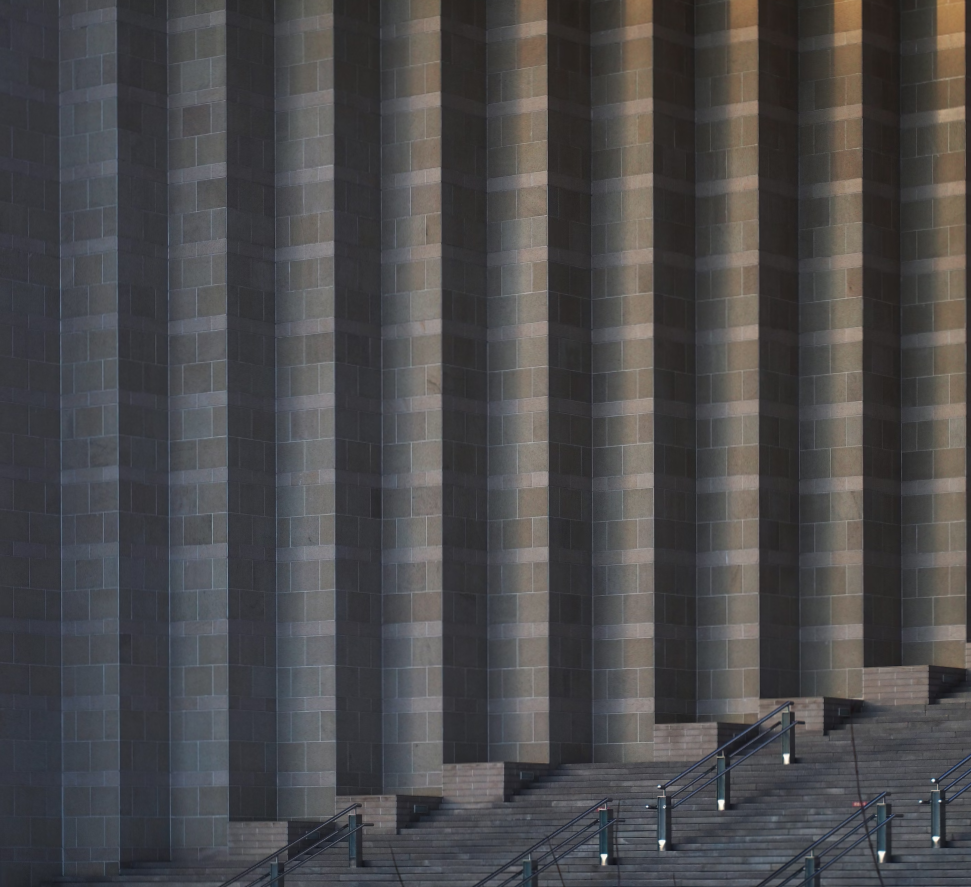
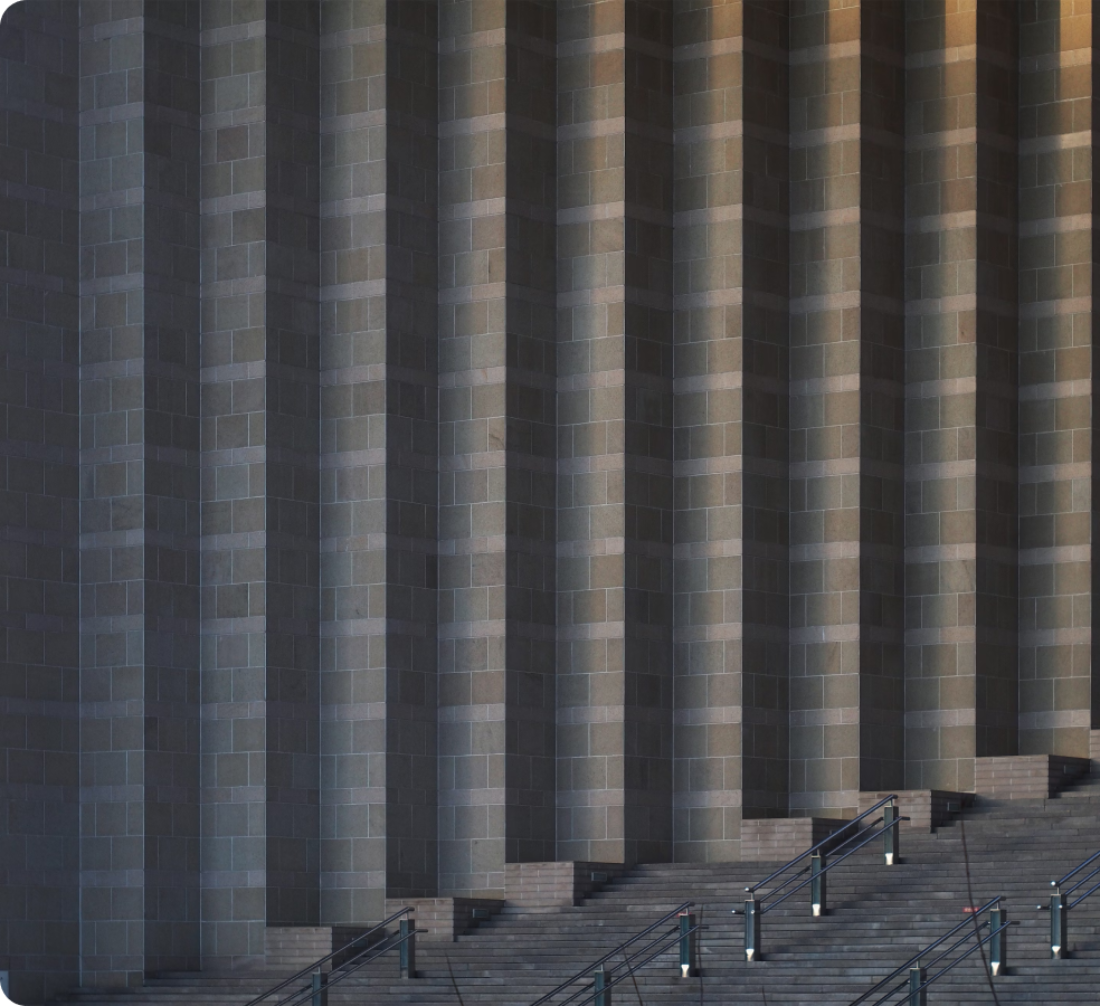
adicionando a imagem de fundo no codigo e estilizando

diff --git a/index.html b/index.html
@@ -8,10 +8,11 @@
     <link rel="stylesheet" href="./styles.css">
 </head>
 <body>
-    <main class="container">
-        <section class="container-img"></section>
+    <main class="container-principal">
+        <section class="container-img">
+            <img class="img-de-fundo" src="./img/img1.png" alt="">
+        </section>
         <section class="container-login">
-
         </section>
     </main>
     

diff --git a/styles.css b/styles.css
@@ -1,0 +1,22 @@
+body{
+    max-width: 100%;
+    height: 100vh;
+}
+
+.container-principal{
+    display: flex;
+}
+
+.container-img{
+    width: 100%;
+    height: 100vh;
+}
+
+.img-de-fundo{
+    height: 100vh;
+}
+
+.container-login{
+    width: 100%;
+    background-color: aqua;
+}
